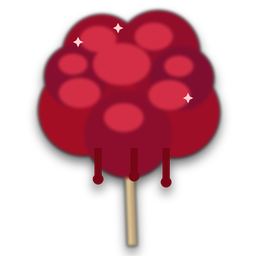
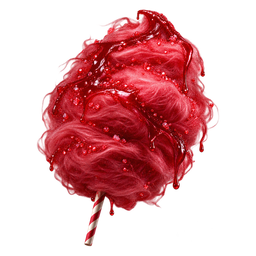
Owner artwork for the ten carnival foods
Replaces the drawn placeholder pictures with the supplied artwork, trimmed,
centred and resized to 256x256 transparent PNGs, in images/inventory and the
ox_inventory copy. The image generator no longer redraws the food unless run
with --food-placeholders.

Claude-Session: https://claude.ai/code/session_01Pj5AHRAdXovFAiAWoyNfQ7

diff --git a/blacklist_carnival/tools/generate_item_images.py b/blacklist_carnival/tools/generate_item_images.py
@@ -6,11 +6,13 @@ Output: 256x256 transparent PNGs named exactly after the item names, written to
   images/inventory/                              (resource copy)
   ../ox_inventory_additions/web/images/          (copy for ox_inventory/web/images)
 
-Usage:  python3 tools/generate_item_images.py
+Usage:  python3 tools/generate_item_images.py [--food-placeholders]
+(the food items ship with owner-supplied artwork; the flag overwrites it with drawn placeholders)
 Requires Pillow and numpy.
 """
 import math
 import os
+import sys
 import shutil
 
 import numpy as np
@@ -617,8 +619,11 @@ def main():
     trick_token()
     treat_token()
     prize_box()
-    for draw in FOOD:
-        draw()
+    # The ten carnival foods use the owner's artwork (images/inventory/carnival_<food>.png).
+    # The drawn versions below are placeholders, only written with --food-placeholders.
+    if '--food-placeholders' in sys.argv:
+        for draw in FOOD:
+            draw()
 
 
 if __name__ == '__main__':

diff --git a/blacklist_carnival/docs/ADMIN_MANUAL.md b/blacklist_carnival/docs/ADMIN_MANUAL.md
@@ -156,7 +156,7 @@ Eating is checked by the server: using the item starts the progress bar, and the
 
 **Your own items** can use the same system: give the item `server = { export = 'blacklist_carnival.useFood' }` in `ox_inventory/data/items.lua` and add an entry with its name to `consumables.lua`.
 
-To redraw the item pictures: `python3 tools/generate_item_images.py`.
+The food pictures are your own artwork (256×256 transparent PNGs in `images/inventory/`, copied to `ox_inventory_additions/web/images/`). To replace one, save the new PNG under the item name in both folders (and in `ox_inventory/web/images/`). `tools/generate_item_images.py` leaves them alone unless run with `--food-placeholders`.
 
 ## Ambient sound
 
